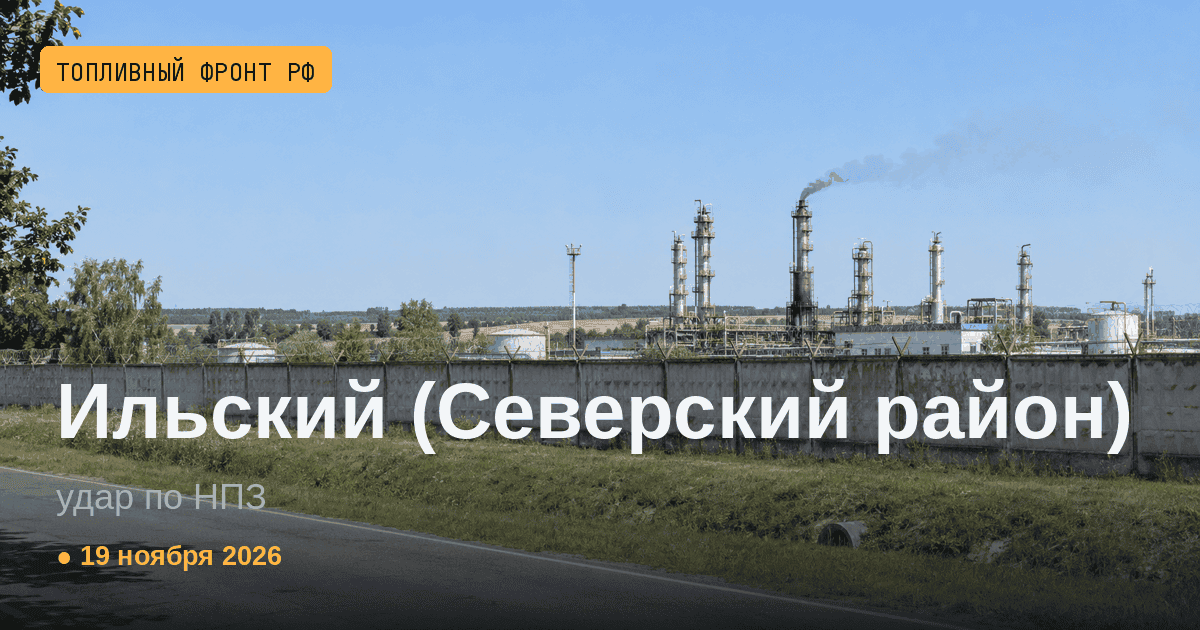
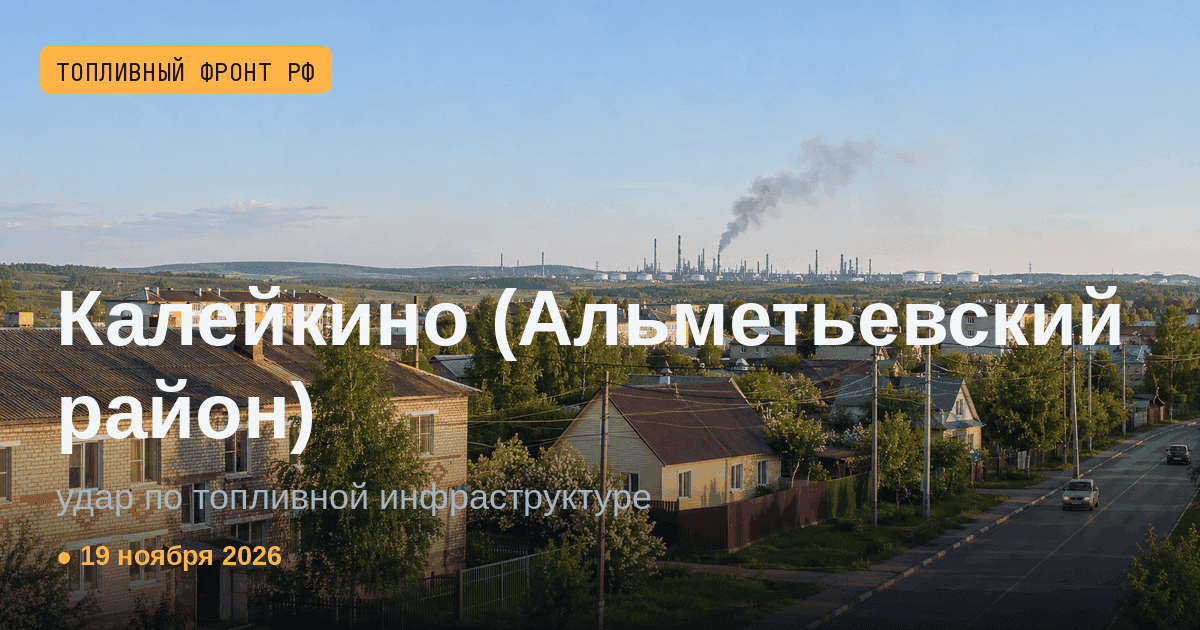
news: regenerate SEO digest + archive

diff --git a/news/2026-11-19.html b/news/2026-11-19.html
@@ -17,7 +17,7 @@
   <meta property="og:url" content="https://npz-tactical-map.vercel.app/news/2026-11-19">
   <meta property="og:title" content="Сводка за 19 ноября 2026: Удар по топливной инфраструктуре в Калейкине (Альметьевский район) и ещё 1 удар | Топливный фронт РФ">
   <meta property="og:description" content="Топливный фронт РФ за 19 ноября 2026: Ударные БПЛА атаковали нефтеперекачивающую станцию «Калейкино» под Альметьевском, на станции начался пожар. Атака на Татарстан продолжалась утром 19 н… Удары по НПЗ, дефицит бензина, лимиты на АЗС.">
-  <meta property="og:image" content="https://npz-tactical-map.vercel.app/assets/cover-2026-11-19.png?v=0a8cce27">
+  <meta property="og:image" content="https://npz-tactical-map.vercel.app/assets/cover-2026-11-19.png?v=bb8b3c04">
   <meta property="og:image:alt" content="Сводка ударов по НПЗ и дефицита бензина — Топливный фронт РФ">
   <meta property="og:image:width" content="1200">
   <meta property="og:image:height" content="630">
@@ -25,15 +25,16 @@
   <meta name="twitter:card" content="summary_large_image">
   <meta name="twitter:title" content="Сводка за 19 ноября 2026: Удар по топливной инфраструктуре в Калейкине (Альметьевский район) и ещё 1 удар | Топливный фронт РФ">
   <meta name="twitter:description" content="Топливный фронт РФ за 19 ноября 2026: Ударные БПЛА атаковали нефтеперекачивающую станцию «Калейкино» под Альметьевском, на станции начался пожар. Атака на Татарстан продолжалась утром 19 н… Удары по НПЗ, дефицит бензина, лимиты на АЗС.">
-  <meta name="twitter:image" content="https://npz-tactical-map.vercel.app/assets/cover-2026-11-19.png?v=0a8cce27">
+  <meta name="twitter:image" content="https://npz-tactical-map.vercel.app/assets/cover-2026-11-19.png?v=bb8b3c04">
   <meta name="twitter:image:alt" content="NPZ Tactical Map — Russia Fuel Crisis Daily Brief">
 
   <link rel="alternate" type="application/rss+xml" title="Топливный фронт РФ — сводки (RSS)" href="https://npz-tactical-map.vercel.app/rss.xml">
 
-  <script type="application/ld+json">{"@context": "https://schema.org", "@type": "NewsArticle", "headline": "Сводка за 19 ноября 2026: Удар по топливной инфраструктуре в Калейкине (Альметьевский район) и ещё 1 удар", "datePublished": "2026-11-19", "dateModified": "2026-11-19", "image": ["https://npz-tactical-map.vercel.app/assets/cover-2026-11-19.png?v=0a8cce27"], "author": {"@type": "Organization", "name": "Топливный фронт РФ"}, "publisher": {"@type": "Organization", "name": "Топливный фронт РФ", "url": "https://npz-tactical-map.vercel.app/"}, "description": "Топливный фронт РФ за 19 ноября 2026: Ударные БПЛА атаковали нефтеперекачивающую станцию «Калейкино» под Альметьевском, на станции начался пожар. Атака на Татарстан продолжалась утром 19 н… Удары по НПЗ, дефицит бензина, лимиты на АЗС.", "mainEntityOfPage": "https://npz-tactical-map.vercel.app/news/2026-11-19", "isAccessibleForFree": true}</script>
+  <script type="application/ld+json">{"@context": "https://schema.org", "@type": "NewsArticle", "headline": "Сводка за 19 ноября 2026: Удар по топливной инфраструктуре в Калейкине (Альметьевский район) и ещё 1 удар", "datePublished": "2026-11-19", "dateModified": "2026-11-19", "image": ["https://npz-tactical-map.vercel.app/assets/cover-2026-11-19.png?v=bb8b3c04"], "author": {"@type": "Organization", "name": "Топливный фронт РФ"}, "publisher": {"@type": "Organization", "name": "Топливный фронт РФ", "url": "https://npz-tactical-map.vercel.app/"}, "description": "Топливный фронт РФ за 19 ноября 2026: Ударные БПЛА атаковали нефтеперекачивающую станцию «Калейкино» под Альметьевском, на станции начался пожар. Атака на Татарстан продолжалась утром 19 н… Удары по НПЗ, дефицит бензина, лимиты на АЗС.", "mainEntityOfPage": "https://npz-tactical-map.vercel.app/news/2026-11-19", "isAccessibleForFree": true}</script>
   <script type="application/ld+json">{"@context": "https://schema.org", "@type": "BreadcrumbList", "itemListElement": [{"@type": "ListItem", "position": 1, "name": "Топливный фронт РФ", "item": "https://npz-tactical-map.vercel.app/"}, {"@type": "ListItem", "position": 2, "name": "Сводки", "item": "https://npz-tactical-map.vercel.app/news"}, {"@type": "ListItem", "position": 3, "name": "Ноябрь 2026", "item": "https://npz-tactical-map.vercel.app/news/2026-11"}, {"@type": "ListItem", "position": 4, "name": "19 ноября 2026", "item": "https://npz-tactical-map.vercel.app/news/2026-11-19"}]}</script>
-  <script type="application/ld+json">{"@context": "https://schema.org", "@type": "VideoObject", "name": "Удар по РФ: Нефтеперекачивающая станция «Калейкино» на н… (Калейкино) · 19.11", "description": "Топливный фронт РФ за 19 ноября 2026: Ударные БПЛА атаковали нефтеперекачивающую станцию «Калейкино» под Альметьевском, на станции начался пожар. Атака на Татарстан продолжалась утром 19 н… Удары по НПЗ, дефицит бензина, лимиты на АЗС.", "thumbnailUrl": ["https://npz-tactical-map.vercel.app/assets/cover-2026-11-19.png?v=0a8cce27", "https://i.ytimg.com/vi/LJ5H-O6BvIc/hqdefault.jpg"], "uploadDate": "2026-11-19T04:57:37Z", "embedUrl": "https://www.youtube.com/embed/LJ5H-O6BvIc", "inLanguage": "ru", "duration": "PT21S"}</script>
-  <script type="application/ld+json">{"@context": "https://schema.org", "@type": "VideoObject", "name": "Удар по РФ: Крымский (Керченский) мост (Керчь) · 19.11", "description": "Топливный фронт РФ за 19 ноября 2026: Ударные БПЛА атаковали нефтеперекачивающую станцию «Калейкино» под Альметьевском, на станции начался пожар. Атака на Татарстан продолжалась утром 19 н… Удары по НПЗ, дефицит бензина, лимиты на АЗС.", "thumbnailUrl": ["https://npz-tactical-map.vercel.app/assets/cover-2026-11-19.png?v=0a8cce27", "https://i.ytimg.com/vi/H10_AR_H35Y/hqdefault.jpg"], "uploadDate": "2026-11-19T03:12:22Z", "embedUrl": "https://www.youtube.com/embed/H10_AR_H35Y", "inLanguage": "ru", "duration": "PT17S"}</script>
+  <script type="application/ld+json">{"@context": "https://schema.org", "@type": "VideoObject", "name": "8 ударов по РФ: Нефтеперекачивающая станция «Калейкино» на н… (Калейкино) и ещё 7 · 19.11", "description": "Топливный фронт РФ за 19 ноября 2026: Ударные БПЛА атаковали нефтеперекачивающую станцию «Калейкино» под Альметьевском, на станции начался пожар. Атака на Татарстан продолжалась утром 19 н… Удары по НПЗ, дефицит бензина, лимиты на АЗС.", "thumbnailUrl": ["https://npz-tactical-map.vercel.app/assets/cover-2026-11-19.png?v=bb8b3c04", "https://i.ytimg.com/vi/YdVgFQW_2ww/hqdefault.jpg"], "uploadDate": "2026-11-19T07:00:07Z", "embedUrl": "https://www.youtube.com/embed/YdVgFQW_2ww", "inLanguage": "ru", "duration": "PT39S"}</script>
+  <script type="application/ld+json">{"@context": "https://schema.org", "@type": "VideoObject", "name": "Удар по РФ: Нефтеперекачивающая станция «Калейкино» на н… (Калейкино) · 19.11", "description": "Топливный фронт РФ за 19 ноября 2026: Ударные БПЛА атаковали нефтеперекачивающую станцию «Калейкино» под Альметьевском, на станции начался пожар. Атака на Татарстан продолжалась утром 19 н… Удары по НПЗ, дефицит бензина, лимиты на АЗС.", "thumbnailUrl": ["https://npz-tactical-map.vercel.app/assets/cover-2026-11-19.png?v=bb8b3c04", "https://i.ytimg.com/vi/LJ5H-O6BvIc/hqdefault.jpg"], "uploadDate": "2026-11-19T04:57:37Z", "embedUrl": "https://www.youtube.com/embed/LJ5H-O6BvIc", "inLanguage": "ru", "duration": "PT21S"}</script>
+  <script type="application/ld+json">{"@context": "https://schema.org", "@type": "VideoObject", "name": "Удар по РФ: Крымский (Керченский) мост (Керчь) · 19.11", "description": "Топливный фронт РФ за 19 ноября 2026: Ударные БПЛА атаковали нефтеперекачивающую станцию «Калейкино» под Альметьевском, на станции начался пожар. Атака на Татарстан продолжалась утром 19 н… Удары по НПЗ, дефицит бензина, лимиты на АЗС.", "thumbnailUrl": ["https://npz-tactical-map.vercel.app/assets/cover-2026-11-19.png?v=bb8b3c04", "https://i.ytimg.com/vi/H10_AR_H35Y/hqdefault.jpg"], "uploadDate": "2026-11-19T03:12:22Z", "embedUrl": "https://www.youtube.com/embed/H10_AR_H35Y", "inLanguage": "ru", "duration": "PT17S"}</script>
 
   <script>window.va = window.va || function () { (window.vaq = window.vaq || []).push(arguments); };</script>
   <script defer src="/_vercel/insights/script.js"></script>
@@ -206,7 +207,7 @@
     <div class="news-container">
       <nav class="brief-crumb"><a href="/news">📰 Все сводки</a> <span>/</span> <a href="/news/2026-11">Ноябрь 2026</a> <span>/</span> 19 ноября 2026</nav>
       <section class="news-hero">
-        <img class="news-hero-image" src="/assets/cover-2026-11-19.webp?v=c09df89c" alt="Сводка за 19 ноября 2026" width="1200" height="630" loading="eager">
+        <img class="news-hero-image" src="/assets/cover-2026-11-19.webp?v=c5592415" alt="Сводка за 19 ноября 2026" width="1200" height="630" loading="eager">
         <span class="hero-kicker">четверг, 19.11.2026</span>
         <h1>19 ноября 2026: Удар по топливной инфраструктуре в Калейкине (Альметьевский район) и ещё 1 удар</h1>
         <p class="section-sub">2 зафиксированных удара · 1 по НПЗ/энергетике. OSINT-агрегация по открытым источникам.</p>
@@ -411,6 +412,7 @@
           <h2>🎬 Видео за 19 ноября 2026</h2>
           <p>Удары дня на карте и итог суток — короткие ролики на YouTube.</p>
           <div class="cta-buttons">
+            <a href="https://youtu.be/YdVgFQW_2ww" class="cta-btn primary" target="_blank" rel="noopener">▶ Короткое видео: удары дня на карте</a>
             <a href="https://youtu.be/LJ5H-O6BvIc" class="cta-btn primary" target="_blank" rel="noopener">▶ Срочно: удар на карте</a>
             <a href="https://youtu.be/H10_AR_H35Y" class="cta-btn primary" target="_blank" rel="noopener">▶ Срочно: удар на карте</a>
           </div>

diff --git a/news/2026-11.html b/news/2026-11.html
@@ -17,7 +17,7 @@
   <meta property="og:url" content="https://npz-tactical-map.vercel.app/news/2026-11">
   <meta property="og:title" content="Удары по НПЗ и топливная обстановка — ноябрь 2026 | Топливный фронт РФ">
   <meta property="og:description" content="Архив сводок за ноябрь 2026: 171 удар по РФ, из них 41 по НПЗ/энергетике, за 19 дней в архиве. Хроника по дням с картой и источниками.">
-  <meta property="og:image" content="https://npz-tactical-map.vercel.app/assets/cover-2026-11-19.png?v=0a8cce27">
+  <meta property="og:image" content="https://npz-tactical-map.vercel.app/assets/cover-2026-11-19.png?v=bb8b3c04">
   <meta property="og:image:alt" content="Сводка ударов по НПЗ и дефицита бензина — Топливный фронт РФ">
   <meta property="og:image:width" content="1200">
   <meta property="og:image:height" content="630">
@@ -25,7 +25,7 @@
   <meta name="twitter:card" content="summary_large_image">
   <meta name="twitter:title" content="Удары по НПЗ и топливная обстановка — ноябрь 2026 | Топливный фронт РФ">
   <meta name="twitter:description" content="Архив сводок за ноябрь 2026: 171 удар по РФ, из них 41 по НПЗ/энергетике, за 19 дней в архиве. Хроника по дням с картой и источниками.">
-  <meta name="twitter:image" content="https://npz-tactical-map.vercel.app/assets/cover-2026-11-19.png?v=0a8cce27">
+  <meta name="twitter:image" content="https://npz-tactical-map.vercel.app/assets/cover-2026-11-19.png?v=bb8b3c04">
   <meta name="twitter:image:alt" content="NPZ Tactical Map — Russia Fuel Crisis Daily Brief">
 
   <link rel="alternate" type="application/rss+xml" title="Топливный фронт РФ — сводки (RSS)" href="https://npz-tactical-map.vercel.app/rss.xml">
@@ -204,7 +204,7 @@
     <div class="news-container">
       <nav class="brief-crumb"><a href="/news">📰 Все сводки</a> <span>/</span> Ноябрь 2026</nav>
       <section class="news-hero">
-        <img class="news-hero-image" src="/assets/cover-2026-11-19.webp?v=c09df89c" alt="Архив сводок за ноябрь 2026" width="1200" height="630" loading="eager">
+        <img class="news-hero-image" src="/assets/cover-2026-11-19.webp?v=c5592415" alt="Архив сводок за ноябрь 2026" width="1200" height="630" loading="eager">
         <span class="hero-kicker">Архив по месяцам</span>
         <h1>Удары по НПЗ и топливная обстановка — ноябрь 2026</h1>
         <p class="section-sub">Хроника ударов и дефицита топлива за ноябрь 2026: 171 удар за 19 дней, основные цели — Волгоград (6), Самара (6), Шебекино (6), Белгород (5), Луганск (5).</p>
@@ -222,7 +222,7 @@
         <h2>🗓 Сводки по дням — ноябрь 2026</h2>
         <div class="brief-grid">
         <a class="brief-card" href="/news/2026-11-19">
-          <div class="brief-card-cover" style="background-image:url('/assets/thumb/cover-2026-11-19.webp?v=1d478223')">
+          <div class="brief-card-cover" style="background-image:url('/assets/thumb/cover-2026-11-19.webp?v=e1f5a2f0')">
             <span class="brief-card-date">19 ноября</span>
           </div>
           <div class="brief-card-body">

diff --git a/news.html b/news.html
@@ -17,7 +17,7 @@
   <meta property="og:url" content="https://npz-tactical-map.vercel.app/news">
   <meta property="og:title" content="Топливный фронт РФ — сводки по дням | удары по НПЗ и дефицит бензина">
   <meta property="og:description" content="Ежедневные OSINT-сводки: удары БПЛА по нефтезаводам России, дефицит бензина, лимиты на АЗС, очереди, цены АИ-95, биржа СПбМТСБ. Архив за каждый день. Последнее обновление — 19 ноября 2026.">
-  <meta property="og:image" content="https://npz-tactical-map.vercel.app/assets/cover-2026-11-19.png?v=0a8cce27">
+  <meta property="og:image" content="https://npz-tactical-map.vercel.app/assets/cover-2026-11-19.png?v=bb8b3c04">
   <meta property="og:image:alt" content="Сводка ударов по НПЗ и дефицита бензина — Топливный фронт РФ">
   <meta property="og:image:width" content="1200">
   <meta property="og:image:height" content="630">
@@ -25,7 +25,7 @@
   <meta name="twitter:card" content="summary_large_image">
   <meta name="twitter:title" content="Топливный фронт РФ — сводки по дням | удары по НПЗ и дефицит бензина">
   <meta name="twitter:description" content="Ежедневные OSINT-сводки: удары БПЛА по нефтезаводам России, дефицит бензина, лимиты на АЗС, очереди, цены АИ-95, биржа СПбМТСБ. Архив за каждый день. Последнее обновление — 19 ноября 2026.">
-  <meta name="twitter:image" content="https://npz-tactical-map.vercel.app/assets/cover-2026-11-19.png?v=0a8cce27">
+  <meta name="twitter:image" content="https://npz-tactical-map.vercel.app/assets/cover-2026-11-19.png?v=bb8b3c04">
   <meta name="twitter:image:alt" content="NPZ Tactical Map — Russia Fuel Crisis Daily Brief">
 
   <link rel="alternate" type="application/rss+xml" title="Топливный фронт РФ — сводки (RSS)" href="https://npz-tactical-map.vercel.app/rss.xml">
@@ -204,7 +204,7 @@
 
       <section class="news-hero-lead">
         <a class="hero-cover-link" href="/news/2026-11-19">
-          <img class="news-hero-image" src="/assets/cover-2026-11-19.webp?v=c09df89c" alt="Сводка за 19 ноября 2026" width="1200" height="630" loading="eager">
+          <img class="news-hero-image" src="/assets/cover-2026-11-19.webp?v=c5592415" alt="Сводка за 19 ноября 2026" width="1200" height="630" loading="eager">
         </a>
         <div class="hero-lead-body">
           <span class="hero-kicker">🔴 Свежая сводка · четверг, 19.11.2026</span>
@@ -253,7 +253,7 @@
         <p class="section-sub">Хроника топливного кризиса — каждый день с 7 июня 2026. Нажми на карточку, чтобы открыть сводку за дату.</p>
         <div class="brief-grid">
         <a class="brief-card is-latest" href="/news/2026-11-19">
-          <div class="brief-card-cover" style="background-image:url('/assets/thumb/cover-2026-11-19.webp?v=1d478223')">
+          <div class="brief-card-cover" style="background-image:url('/assets/thumb/cover-2026-11-19.webp?v=e1f5a2f0')">
             <span class="brief-card-date">19 ноября</span>
           </div>
           <div class="brief-card-body">
